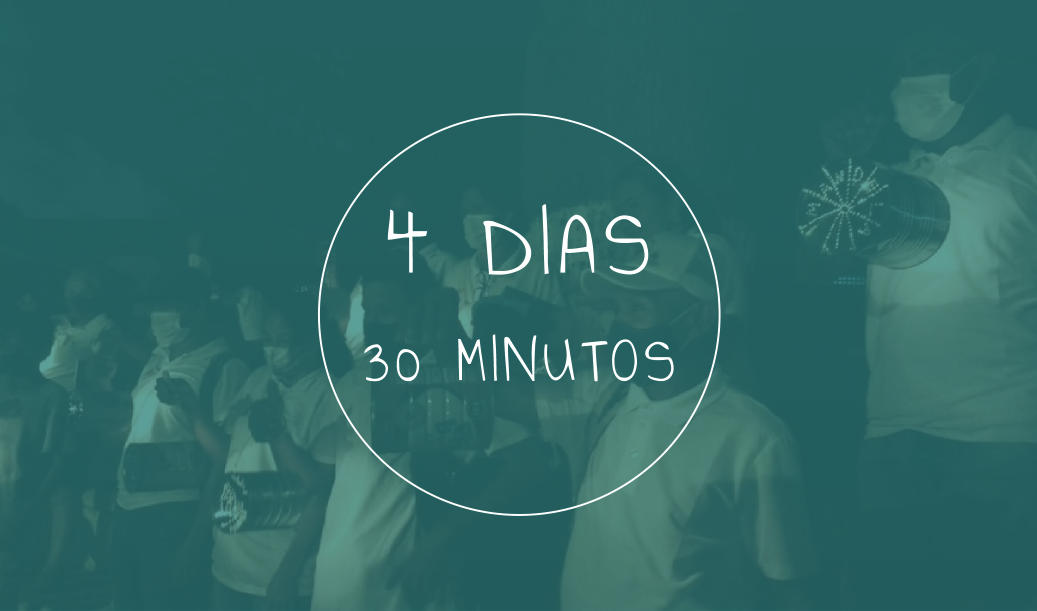
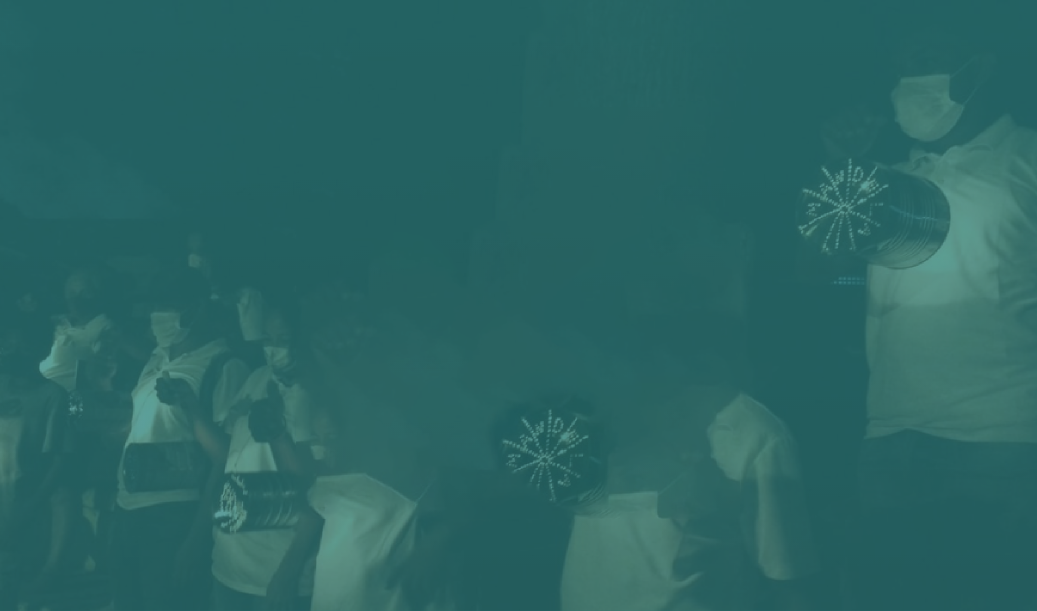
Ajustes y contador

diff --git a/final/css/app.min.css b/final/css/app.min.css
@@ -1,1 +1,1 @@
-@import url("https://fonts.googleapis.com/css2?family=Dosis:wght@300;500&family=Merienda+One&display=swap");*,*:before,*:after{-webkit-box-sizing:border-box;box-sizing:border-box}html,body,div,span,object,iframe,figure,h1,h2,h3,h4,h5,h6,p,blockquote,pre,a,code,em,img,small,strike,strong,sub,sup,tt,b,u,i,ol,ul,li,fieldset,form,label,table,caption,tbody,tfoot,thead,tr,th,td,main,canvas,embed,footer,header,nav,section,video{margin:0;padding:0;border:0;font-size:18px;font:inherit;vertical-align:baseline;text-rendering:optimizeLegibility;-webkit-font-smoothing:antialiased;-webkit-text-size-adjust:none;-moz-text-size-adjust:none;-ms-text-size-adjust:none;text-size-adjust:none}footer,header,nav,section,main{display:block}html,body{margin:0;height:100%;overflow-x:hidden;-webkit-overflow-scrolling:touch;overflow-scrolling:touch}em{font-style:italic}b{font-weight:700}p{line-height:160%}ol,ul{list-style:none}blockquote,q{quotes:none}blockquote:before,blockquote:after,q:before,q:after{content:"";content:none}table{border-collapse:collapse;border-spacing:0}img{display:block}html{overflow-x:hidden}footer{background-color:#173533;padding:100px 20px;text-align:center}footer img{max-width:1000px;width:100%;display:inline-block}a{font-family:"Dosis", sans-serif}#gradient{position:fixed;top:0;left:0;height:100vh;width:100vw;z-index:-10}.mt-10{margin-top:10% !important}.mt-20{margin-top:20% !important}#container{padding:0;position:relative;z-index:100;overflow-x:hidden;background-color:transparent}#container::after{content:"";position:absolute;z-index:500;bottom:5vh;left:15vw;width:70vw;height:2px;border-top:1px dashed rgba(245,245,220,0.2)}#container #colorsBox{position:absolute;top:0;left:0;width:100%;height:calc(100% - 100vh);pointer-events:none}#container #colorsBox .colorTrigger{position:relative;width:100%}#container section{width:100%;padding:0vh 0 8vh 0;max-width:75vw;margin:0 auto;display:-ms-grid;display:grid;-webkit-box-align:center;-ms-flex-align:center;align-items:center;position:relative}#container section:first-of-type{padding:0}#container section.ubicacion{width:100vw;height:100vh;position:relative;margin-bottom:0vh;display:-webkit-box;display:-ms-flexbox;display:flex;-webkit-box-pack:center;-ms-flex-pack:center;justify-content:center;-webkit-box-align:center;-ms-flex-align:center;align-items:center}#container section.ubicacion img{position:absolute;z-index:500;width:90vw;max-width:90vw;height:90vh;max-height:90vh}#container section.ubicacion img.map-colombia{width:100vw;max-width:100vw;left:6vw}#container section.ubicacion h3{--min: 2rem;--val: 3rem;--max: 4rem;font-family:"Merienda One", cursive;font-weight:normal;font-style:normal;line-height:160%;margin:0 0 5vh 0;color:#993333;opacity:1;max-width:70vw;position:absolute;z-index:100;left:8vw;opacity:1}#container section.ubicacion h3:nth-child(1){opacity:1}#container section.ubicacion h3:nth-child(3){opacity:1}#container section.m-section{min-height:70vh}#container section.big-quote{display:-webkit-box;display:-ms-flexbox;display:flex;margin:0 auto;max-width:800px}#container section.big-quote p{--min: 2.2rem;--val: 2.2rem;--max: 5rem;display:-webkit-box}#container section.divider{height:100vh}#container section.mid-divider{height:50vh}#container section.dark p{color:#454545 !important}#container section:first-of-type{padding:0}#container section .right-col{width:60%;margin-left:40%}#container section .left-col{width:70%}#container section.f-width{max-width:100%}#container section.f-width img{width:100%}#container section.m-width{max-width:800px}#container .center{text-align:center}#container .right h2,#container .right p{text-align:right}#container h2,#container h3,#container small,#container p{-webkit-marquee-increment:0vw;font-size:clamp(var(--min), var(--val), var(--max))}#container h2{--min: 3rem;--val: 3.8rem;--max: 5rem;font-family:"Merienda One", cursive;font-weight:normal;font-style:normal;line-height:1;margin:0 0 5vh 0;color:#993333;opacity:1}#container h2.big-title{--min: 2rem;--val: 4.5rem;--max: 8rem}#container h2 small{--min: 2rem;--val: 3rem;--max: 4rem;display:block;margin-bottom:20px}#container p{--min: 1.6rem;--val: calc(0.5vw + 1.4rem);--max: 2.8rem;font-family:"Dosis", sans-serif;line-height:160%;color:white;padding:10px 0 10px 0;font-weight:300}#container p:first-child{--min: 1.6rem;--val: calc(0.5vw + 1.4rem);--max: 2.8rem;color:white;max-width:100vw;-webkit-box-align:center;-ms-flex-align:center;align-items:center;padding-bottom:0;margin-bottom:0;font-weight:300}#container .manoBox{position:absolute;z-index:200;pointer-events:none}#container .manoBox img{width:100%}#container .manoBox img.manoA{position:relative;z-index:10}#container .manoBox img.manoBrillo{position:absolute;z-index:20;top:0;left:0;opacity:0;-webkit-transition:opacity 0.7s ease-out;transition:opacity 0.7s ease-out}#container .manoBox img.manoBrillo.active{opacity:1}#container .manoBox#mano1{width:90vw;top:0%;left:-60vw}#container .manoBox#mano2{width:90vw;top:70%;right:-20vw}#container .manoBox#mano3{width:90vw;top:0%;left:-65vw}#container .manoBox#mano4{width:70vw;top:30%;right:-20vw}.toggle,.graphic-table{padding:20px;border-radius:100px;border-color:white !important;color:white;text-decoration:none;border:1px solid;font-size:1.2rem;-webkit-transition:all 0.4s ease-in-out;transition:all 0.4s ease-in-out;display:inline-block}.graphic-table:hover{background-color:#000;color:#fff}.toggle{margin:4rem 0;text-align:center;max-width:400px}.toggle img{width:30px;margin:-7px 10px 10px;vertical-align:middle;-webkit-filter:invert(0%) sepia(0%) saturate(0%) hue-rotate(0deg) brightness(200%) contrast(100%);filter:invert(0%) sepia(0%) saturate(0%) hue-rotate(0deg) brightness(200%) contrast(100%);-webkit-transition:all 0.4s ease-in-out;transition:all 0.4s ease-in-out;display:inline-block}.toggle:hover img{-webkit-filter:invert(0%) sepia(0%) saturate(0%) hue-rotate(0deg) brightness(200%) contrast(100%);filter:invert(0%) sepia(0%) saturate(0%) hue-rotate(0deg) brightness(200%) contrast(100%);-webkit-transition:all 0.4s ease-in-out;transition:all 0.4s ease-in-out}.toggle-content{display:none;height:auto;opacity:0;overflow:hidden;-webkit-transition:opacity 0.3s ease-in-out;transition:opacity 0.3s ease-in-out}.toggle-content.is-visible{display:-webkit-box;display:-ms-flexbox;display:flex;width:100%;-webkit-box-align:center;-ms-flex-align:center;align-items:center;-webkit-box-pack:center;-ms-flex-pack:center;justify-content:center;height:100vh !important;opacity:1;-webkit-transition:opacity 0.3s ease-in-out;transition:opacity 0.3s ease-in-out}.inside-button{position:absolute;top:10px;left:10px;padding:0px 18px 5px !important;z-index:999999}.mask-image{mask-image:url("https://res.cloudinary.com/daqkfiwnc/image/upload/v1647573770/assets/mask_cloud_gzcgdf.png");-webkit-mask-size:100% 100%;mask-size:100% 100%;mask-mode:alpha;mask-repeat:no-repeat;mask-position:center;-webkit-mask-image:url("https://res.cloudinary.com/daqkfiwnc/image/upload/v1647573770/assets/mask_cloud_gzcgdf.png");-webkit-mask-size:300% 100%;-webkit-mask-repeat:no-repeat;-webkit-mask-position:center}.mask-image.is-inview{mask-image:url("https://res.cloudinary.com/daqkfiwnc/image/upload/v1647573770/assets/mask_cloud_gzcgdf.png");-webkit-mask-size:100% 100%;mask-size:100% 100%;mask-mode:alpha;mask-repeat:no-repeat;mask-position:center;-webkit-mask-image:url("https://res.cloudinary.com/daqkfiwnc/image/upload/v1647573770/assets/mask_cloud_gzcgdf.png");-webkit-mask-size:300% 100%;-webkit-mask-repeat:no-repeat;-webkit-mask-position:center;-webkit-animation-name:mask-animation-image;animation-name:mask-animation-image;-webkit-animation-duration:1s;animation-duration:1s;-webkit-animation-iteration-count:1;animation-iteration-count:1;-webkit-animation-fill-mode:forwards;animation-fill-mode:forwards}.modal{position:fixed;top:0;left:0;z-index:9999;background-color:var(--cream);mask-image:url("https://res.cloudinary.com/daqkfiwnc/image/upload/v1647573770/assets/mask_cloud_gzcgdf.png");mask-size:100% 100%;mask-mode:alpha;mask-repeat:no-repeat;mask-position:center;-webkit-mask-image:url("https://res.cloudinary.com/daqkfiwnc/image/upload/v1647573770/assets/mask_cloud_gzcgdf.png");-webkit-mask-size:100% 100%;-webkit-mask-repeat:no-repeat;-webkit-mask-position:center;-webkit-animation-name:mask-animation;animation-name:mask-animation;-webkit-animation-duration:2s;animation-duration:2s;-webkit-animation-iteration-count:1;animation-iteration-count:1;-webkit-animation-fill-mode:forwards;animation-fill-mode:forwards}.mask-hide{-webkit-animation-name:mask-hide;animation-name:mask-hide;-webkit-animation-duration:2s;animation-duration:2s;-webkit-animation-iteration-count:1;animation-iteration-count:1;-webkit-animation-fill-mode:forwards;animation-fill-mode:forwards}.modal#fragmentos{background-color:#cb9866}.modal#entre-dientes{background-color:#987f4d}.modal#anonimos{background-color:#339898}.modal#pazzz{background-color:#348080}.content-modal{display:-webkit-box;display:-ms-flexbox;display:flex;-webkit-box-orient:vertical;-webkit-box-direction:normal;-ms-flex-direction:column;flex-direction:column;-webkit-box-align:center;-ms-flex-align:center;align-items:center}@-webkit-keyframes mask-animation{0%{opacity:1;mask-size:0vw 0vh;-webkit-mask-size:0vw 0vh}100%{opacity:1;mask-size:300vw 300vh;-webkit-mask-size:300vw 300vh}}@keyframes mask-animation{0%{opacity:1;mask-size:0vw 0vh;-webkit-mask-size:0vw 0vh}100%{opacity:1;mask-size:300vw 300vh;-webkit-mask-size:300vw 300vh}}@-webkit-keyframes mask-animation-image{0%{opacity:0;mask-size:0% 0%;-webkit-mask-size:0% 0%}100%{opacity:1;mask-size:300% 100%;-webkit-mask-size:300% 100%}}@keyframes mask-animation-image{0%{opacity:0;mask-size:0% 0%;-webkit-mask-size:0% 0%}100%{opacity:1;mask-size:300% 100%;-webkit-mask-size:300% 100%}}@-webkit-keyframes mask-hide{0%{opacity:1;mask-size:300vw 300vh;-webkit-mask-size:300vw 300vh}100%{opacity:1;mask-size:0vw 0vh;-webkit-mask-size:0vw 0vh}}@keyframes mask-hide{0%{opacity:1;mask-size:300vw 300vh;-webkit-mask-size:300vw 300vh}100%{opacity:1;mask-size:0vw 0vh;-webkit-mask-size:0vw 0vh}}.gallery{padding:2px;padding:2px;max-width:1200px;margin:0 auto}.gallery .photo{position:relative;float:left;margin:2px;width:32%;cursor:pointer;background:#000;-webkit-animation:small 0.5s ease-in-out both;animation:small 0.5s ease-in-out both;-webkit-transition:z-index 0s linear 0.5s, -webkit-transform 0.5s ease-in-out;transition:z-index 0s linear 0.5s, -webkit-transform 0.5s ease-in-out;transition:transform 0.5s ease-in-out, z-index 0s linear 0.5s;transition:transform 0.5s ease-in-out, z-index 0s linear 0.5s, -webkit-transform 0.5s ease-in-out}.gallery .photo.active{-webkit-animation:big 0.5s ease-in-out both;animation:big 0.5s ease-in-out both}.gallery .photo:nth-child(1){-webkit-transform-origin:0% 0%;transform-origin:0% 0%}.gallery .photo:nth-child(2){-webkit-transform-origin:50% 0%;transform-origin:50% 0%}.gallery .photo:nth-child(3){-webkit-transform-origin:100% 0%;transform-origin:100% 0%}.gallery .photo:nth-child(4){-webkit-transform-origin:0% 50%;transform-origin:0% 50%}.gallery .photo:nth-child(5){-webkit-transform-origin:50% 50%;transform-origin:50% 50%}.gallery .photo:nth-child(6){-webkit-transform-origin:100% 50%;transform-origin:100% 50%}.gallery .photo:nth-child(7){-webkit-transform-origin:0% 100%;transform-origin:0% 100%}.gallery .photo:nth-child(8){-webkit-transform-origin:50% 100%;transform-origin:50% 100%}.gallery .photo:nth-child(9){-webkit-transform-origin:100% 100%;transform-origin:100% 100%}.gallery .photo img{width:100%;height:auto;-webkit-transition:opacity 0.5s ease-in-out;transition:opacity 0.5s ease-in-out}.gallery .photo.away img{opacity:0}.linea-interactiva{position:relative;height:100%}.linea-interactiva .fechas{height:170%;position:absolute;z-index:9999;top:-24%;cursor:pointer}.linea-interactiva .fechas:hover .forma-interactiva{opacity:1;-webkit-transition:all 0.2s ease-in-out;transition:all 0.2s ease-in-out}.linea-interactiva .fechas .fecha{font-size:1.8rem;color:#fff;font-family:"Dosis", sans-serif;font-weight:300;position:absolute}.linea-interactiva .fechas.fecha-1980{width:30%}.linea-interactiva .fechas.fecha-1980:hover .forma-interactiva{opacity:1;-webkit-transition:all 0.2s ease-in-out;transition:all 0.2s ease-in-out}.linea-interactiva .fechas.fecha-1980:hover .content-fecha{height:50%;opacity:1;-webkit-transition:all 0.2s ease-in-out;transition:all 0.2s ease-in-out}.linea-interactiva .fechas.fecha-1980 .content-fecha{position:absolute;height:0%;width:100%;bottom:30%;opacity:0;overflow:hidden;-webkit-transition:all 0.2s ease-in-out;transition:all 0.2s ease-in-out}.linea-interactiva .fechas.fecha-1980 .fecha{bottom:5%;left:25%}.linea-interactiva .fechas.fecha-1980 .linea-fecha{position:absolute;border-color:#fff;border-style:solid;border-right:1px;border-top:1px;width:100%;height:260px;bottom:0%;left:18%}.linea-interactiva .fechas.fecha-1980 .forma-interactiva{width:88%;height:27%;transform:skew(0deg, 6deg);-webkit-transform:skew(0deg, 0deg);-moz-transform:skew(0deg, 0deg);-o-transform:skew(0deg, 0deg);-ms-transform:skew(0deg, 0deg);position:absolute;top:37%;left:10%;opacity:0;background:rgba(252,203,104,0.5);-webkit-transition:all 0.2s ease-in-out;transition:all 0.2s ease-in-out}.linea-interactiva .fechas.fecha-1988{width:21%;left:30%}.linea-interactiva .fechas.fecha-1988 .content-fecha{position:absolute;height:0%;width:100%;top:0%;opacity:1;overflow:hidden;-webkit-transition:all 0.2s ease-in-out;transition:all 0.2s ease-in-out}.linea-interactiva .fechas.fecha-1988 .fecha{top:20%;left:0%}.linea-interactiva .fechas.fecha-1988 .linea-fecha{position:absolute;border-color:#fff;border-style:solid;border-left:1px;border-bottom:1px;width:65%;height:254px;top:40%;left:0%}.linea-interactiva .fechas.fecha-1988 .forma-interactiva{width:56%;height:37%;transform:skew(-2deg, 3deg);-webkit-transform:skew(-2deg, 3deg);-moz-transform:skew(-2deg, 3deg);-o-transform:skew(-2deg, 3deg);-ms-transform:skew(-2deg, 3deg);position:absolute;top:26%;left:13%;opacity:0;background:rgba(252,203,104,0.5);-webkit-transition:all 0.2s ease-in-out;transition:all 0.2s ease-in-out}.linea-interactiva .fechas.fecha-1988:hover .content-fecha{height:50%;opacity:1;-webkit-transition:all 0.2s ease-in-out;transition:all 0.2s ease-in-out}.linea-interactiva .fechas.fecha-1988:hover .forma-interactiva{opacity:1;-webkit-transition:all 0.2s ease-in-out;transition:all 0.2s ease-in-out}.linea-interactiva .fechas.fecha-1997{width:10%;left:51%}.linea-interactiva .fechas.fecha-1997:hover .content-fecha{height:50%;opacity:1;-webkit-transition:all 0.2s ease-in-out;transition:all 0.2s ease-in-out}.linea-interactiva .fechas.fecha-1997:hover .forma-interactiva{opacity:1;-webkit-transition:all 0.2s ease-in-out;transition:all 0.2s ease-in-out}.linea-interactiva .fechas.fecha-1997 .content-fecha{position:absolute;height:0%;width:100%;top:0%;opacity:0;overflow:hidden;-webkit-transition:all 0.2s ease-in-out;transition:all 0.2s ease-in-out}.linea-interactiva .fechas.fecha-1997 .fecha{top:32%;left:0%;width:100%}.linea-interactiva .fechas.fecha-1997 .linea-fecha{position:absolute;border-color:#fff;border-style:solid;border-right:1px;border-bottom:1px;width:100%;height:201px;top:52%;left:2%}.linea-interactiva .fechas.fecha-1997 .forma-interactiva{width:74%;height:29%;transform:skew(-2deg, 3deg);-webkit-transform:skew(-2deg, 3deg);-moz-transform:skew(-2deg, 3deg);-o-transform:skew(-2deg, 3deg);-ms-transform:skew(-2deg, 3deg);position:absolute;left:0%;top:34%;opacity:0;background:rgba(252,203,104,0.5);-webkit-transition:all 0.2s ease-in-out;transition:all 0.2s ease-in-out}.linea-interactiva .fechas.fecha-2005{width:39%;left:61%}.linea-interactiva .fechas.fecha-2005:hover .content-fecha{height:50%;opacity:1;-webkit-transition:all 0.2s ease-in-out;transition:all 0.2s ease-in-out}.linea-interactiva .fechas.fecha-2005:hover .forma-interactiva{opacity:1;-webkit-transition:all 0.2s ease-in-out;transition:all 0.2s ease-in-out}.linea-interactiva .fechas.fecha-2005 .content-fecha{position:absolute;height:0%;width:100%;bottom:30%;opacity:0;overflow:hidden;-webkit-transition:all 0.2s ease-in-out;transition:all 0.2s ease-in-out}.linea-interactiva .fechas.fecha-2005 .fecha{bottom:5%;left:25%}.linea-interactiva .fechas.fecha-2005 .linea-fecha{position:absolute;border-color:#fff;border-style:solid;border-right:1px;border-top:1px;width:100%;height:260px;bottom:0%;left:18%}.linea-interactiva .fechas.fecha-2005 .forma-interactiva{width:36%;height:18%;transform:skew(0deg, 6deg);-webkit-transform:skew(-3deg, 3deg);-moz-transform:skew(-3deg, 3deg);-o-transform:skew(-3deg, 3deg);-ms-transform:skew(-3deg, 3deg);position:absolute;top:37%;left:4%;opacity:0;background:rgba(252,203,104,0.5);-webkit-transition:all 0.2s ease-in-out;transition:all 0.2s ease-in-out}.thumb{display:-webkit-box;display:-ms-flexbox;display:flex;-webkit-box-align:center;-ms-flex-align:center;align-items:center;-webkit-box-pack:center;-ms-flex-pack:center;justify-content:center;-webkit-box-orient:vertical;-webkit-box-direction:normal;-ms-flex-direction:column;flex-direction:column}.thumbs-block{position:relative;overflow:hidden}.thumbs-block .thumbs{display:-webkit-box;display:-ms-flexbox;display:flex;-webkit-box-orient:horizontal;-webkit-box-direction:normal;-ms-flex-flow:row nowrap;flex-flow:row nowrap;background-size:cover;padding:70px}.thumbs-block .thumbs .thumb img{max-width:250px;margin:20px;-webkit-transform:scale(1);transform:scale(1);-webkit-transition:all 0.8s ease-in-out;transition:all 0.8s ease-in-out}.thumbs-block .thumbs .thumb img:hover{max-width:250px;margin:20px;-webkit-transform:scale(1.3);transform:scale(1.3);-webkit-transition:all 0.8s ease-in-out;transition:all 0.8s ease-in-out;z-index:1;cursor:pointer}.thumbs-block .thumbs .background img{position:absolute;width:auto !important;max-width:inherit;left:0;top:0}.title-yellow{color:#FCCB68 !important}.w-5{max-width:50vw;margin:0 auto}
+@import url("https://fonts.googleapis.com/css2?family=Dosis:wght@300;500&family=Merienda+One&display=swap");*,*:before,*:after{-webkit-box-sizing:border-box;box-sizing:border-box}html,body,div,span,object,iframe,figure,h1,h2,h3,h4,h5,h6,p,blockquote,pre,a,code,em,img,small,strike,strong,sub,sup,tt,b,u,i,ol,ul,li,fieldset,form,label,table,caption,tbody,tfoot,thead,tr,th,td,main,canvas,embed,footer,header,nav,section,video{margin:0;padding:0;border:0;font-size:18px;font:inherit;vertical-align:baseline;text-rendering:optimizeLegibility;-webkit-font-smoothing:antialiased;-webkit-text-size-adjust:none;-moz-text-size-adjust:none;-ms-text-size-adjust:none;text-size-adjust:none}footer,header,nav,section,main{display:block}html,body{margin:0;height:100%;overflow-x:hidden;-webkit-overflow-scrolling:touch;overflow-scrolling:touch}em{font-style:italic}b{font-weight:700}p{line-height:160%}ol,ul{list-style:none}blockquote,q{quotes:none}blockquote:before,blockquote:after,q:before,q:after{content:"";content:none}table{border-collapse:collapse;border-spacing:0}img{display:block}html{overflow-x:hidden}footer{background-color:#173533;padding:100px 20px;text-align:center}footer img{max-width:1000px;width:100%;display:inline-block}a{font-family:"Dosis", sans-serif}#gradient{position:fixed;top:0;left:0;height:100vh;width:100vw;z-index:-10}.mt-10{margin-top:10% !important}.mt-20{margin-top:20% !important}#container{padding:0;position:relative;z-index:100;overflow-x:hidden;background-color:transparent}#container::after{content:"";position:absolute;z-index:500;bottom:5vh;left:15vw;width:70vw;height:2px;border-top:1px dashed rgba(245,245,220,0.2)}#container #colorsBox{position:absolute;top:0;left:0;width:100%;height:calc(100% - 100vh);pointer-events:none}#container #colorsBox .colorTrigger{position:relative;width:100%}#container section{width:100%;padding:0vh 0 8vh 0;max-width:75vw;margin:0 auto;display:-ms-grid;display:grid;-webkit-box-align:center;-ms-flex-align:center;align-items:center;position:relative}#container section:first-of-type{padding:0}#container section.ubicacion{width:100vw;height:100vh;position:relative;margin-bottom:0vh;display:-webkit-box;display:-ms-flexbox;display:flex;-webkit-box-pack:center;-ms-flex-pack:center;justify-content:center;-webkit-box-align:center;-ms-flex-align:center;align-items:center}#container section.ubicacion img{position:absolute;z-index:500;width:90vw;max-width:90vw;height:90vh;max-height:90vh}#container section.ubicacion img.map-colombia{width:100vw;max-width:100vw;left:6vw}#container section.ubicacion h3{--min: 2rem;--val: 3rem;--max: 4rem;font-family:"Merienda One", cursive;font-weight:normal;font-style:normal;line-height:160%;margin:0 0 5vh 0;color:#993333;opacity:1;max-width:70vw;position:absolute;z-index:100;left:8vw;opacity:1}#container section.ubicacion h3:nth-child(1){opacity:1}#container section.ubicacion h3:nth-child(3){opacity:1}#container section.m-section{min-height:70vh}#container section.big-quote{display:-webkit-box;display:-ms-flexbox;display:flex;margin:0 auto;max-width:800px}#container section.big-quote p{--min: 2.2rem;--val: 2.2rem;--max: 5rem;display:-webkit-box}#container section.divider{height:100vh}#container section.mid-divider{height:50vh}#container section.dark p{color:#454545 !important}#container section:first-of-type{padding:0}#container section .right-col{width:60%;margin-left:40%}#container section .left-col{width:70%}#container section.f-width{max-width:100%}#container section.f-width img{width:100%}#container section.m-width{max-width:800px}#container .center{text-align:center}#container .right h2,#container .right p{text-align:right}#container h2,#container h3,#container small,#container p{-webkit-marquee-increment:0vw;font-size:clamp(var(--min), var(--val), var(--max))}#container h2{--min: 3rem;--val: 3.8rem;--max: 5rem;font-family:"Merienda One", cursive;font-weight:normal;font-style:normal;line-height:1;margin:0 0 5vh 0;color:#993333;opacity:1}#container h2.big-title{--min: 2rem;--val: 4.5rem;--max: 8rem}#container h2 small{--min: 2rem;--val: 3rem;--max: 4rem;display:block;margin-bottom:20px}#container p{--min: 1.6rem;--val: calc(0.5vw + 1.4rem);--max: 2.8rem;font-family:"Dosis", sans-serif;line-height:160%;color:white;padding:10px 0 10px 0;font-weight:300}#container p:first-child{--min: 1.6rem;--val: calc(0.5vw + 1.4rem);--max: 2.8rem;color:white;max-width:100vw;-webkit-box-align:center;-ms-flex-align:center;align-items:center;padding-bottom:0;margin-bottom:0;font-weight:300}#container .manoBox{position:absolute;z-index:200;pointer-events:none}#container .manoBox img{width:100%}#container .manoBox img.manoA{position:relative;z-index:10}#container .manoBox img.manoBrillo{position:absolute;z-index:20;top:0;left:0;opacity:0;-webkit-transition:opacity 0.7s ease-out;transition:opacity 0.7s ease-out}#container .manoBox img.manoBrillo.active{opacity:1}#container .manoBox#mano1{width:90vw;top:0%;left:-60vw}#container .manoBox#mano2{width:90vw;top:70%;right:-20vw}#container .manoBox#mano3{width:90vw;top:0%;left:-65vw}#container .manoBox#mano4{width:70vw;top:30%;right:-20vw}#countdown{background:url("../images/video.png");background-size:cover;width:100%;padding:100px}#countdown ul{width:500px;height:500px;display:-ms-grid;display:grid;border:1px solid #fff;border-radius:100%;justify-items:center;margin:0 auto;padding:6rem}#countdown ul li{font-family:"Merienda One", cursive;font-size:3rem;color:white}.toggle,.graphic-table{padding:20px;border-radius:100px;border-color:white !important;color:white;text-decoration:none;border:1px solid;font-size:1.2rem;-webkit-transition:all 0.4s ease-in-out;transition:all 0.4s ease-in-out;display:inline-block}.graphic-table:hover{background-color:#000;color:#fff}.toggle{margin:4rem 0;text-align:center;max-width:400px}.toggle img{width:30px;margin:-7px 10px 10px;vertical-align:middle;-webkit-filter:invert(0%) sepia(0%) saturate(0%) hue-rotate(0deg) brightness(200%) contrast(100%);filter:invert(0%) sepia(0%) saturate(0%) hue-rotate(0deg) brightness(200%) contrast(100%);-webkit-transition:all 0.4s ease-in-out;transition:all 0.4s ease-in-out;display:inline-block}.toggle:hover img{-webkit-filter:invert(0%) sepia(0%) saturate(0%) hue-rotate(0deg) brightness(200%) contrast(100%);filter:invert(0%) sepia(0%) saturate(0%) hue-rotate(0deg) brightness(200%) contrast(100%);-webkit-transition:all 0.4s ease-in-out;transition:all 0.4s ease-in-out}.toggle-content{display:none;height:auto;opacity:0;overflow:hidden;-webkit-transition:opacity 0.3s ease-in-out;transition:opacity 0.3s ease-in-out}.toggle-content.is-visible{display:-webkit-box;display:-ms-flexbox;display:flex;width:100%;-webkit-box-align:center;-ms-flex-align:center;align-items:center;-webkit-box-pack:center;-ms-flex-pack:center;justify-content:center;height:100vh !important;opacity:1;-webkit-transition:opacity 0.3s ease-in-out;transition:opacity 0.3s ease-in-out}.inside-button{position:absolute;top:10px;left:10px;padding:0px 18px 5px !important;z-index:999999}.mask-image{mask-image:url("https://res.cloudinary.com/daqkfiwnc/image/upload/v1647573770/assets/mask_cloud_gzcgdf.png");-webkit-mask-size:100% 100%;mask-size:100% 100%;mask-mode:alpha;mask-repeat:no-repeat;mask-position:center;-webkit-mask-image:url("https://res.cloudinary.com/daqkfiwnc/image/upload/v1647573770/assets/mask_cloud_gzcgdf.png");-webkit-mask-size:300% 100%;-webkit-mask-repeat:no-repeat;-webkit-mask-position:center}.mask-image.is-inview{mask-image:url("https://res.cloudinary.com/daqkfiwnc/image/upload/v1647573770/assets/mask_cloud_gzcgdf.png");-webkit-mask-size:100% 100%;mask-size:100% 100%;mask-mode:alpha;mask-repeat:no-repeat;mask-position:center;-webkit-mask-image:url("https://res.cloudinary.com/daqkfiwnc/image/upload/v1647573770/assets/mask_cloud_gzcgdf.png");-webkit-mask-size:300% 100%;-webkit-mask-repeat:no-repeat;-webkit-mask-position:center;-webkit-animation-name:mask-animation-image;animation-name:mask-animation-image;-webkit-animation-duration:1s;animation-duration:1s;-webkit-animation-iteration-count:1;animation-iteration-count:1;-webkit-animation-fill-mode:forwards;animation-fill-mode:forwards}.modal{position:fixed;top:0;left:0;z-index:9999;background-color:var(--cream);mask-image:url("https://res.cloudinary.com/daqkfiwnc/image/upload/v1647573770/assets/mask_cloud_gzcgdf.png");mask-size:100% 100%;mask-mode:alpha;mask-repeat:no-repeat;mask-position:center;-webkit-mask-image:url("https://res.cloudinary.com/daqkfiwnc/image/upload/v1647573770/assets/mask_cloud_gzcgdf.png");-webkit-mask-size:100% 100%;-webkit-mask-repeat:no-repeat;-webkit-mask-position:center;-webkit-animation-name:mask-animation;animation-name:mask-animation;-webkit-animation-duration:2s;animation-duration:2s;-webkit-animation-iteration-count:1;animation-iteration-count:1;-webkit-animation-fill-mode:forwards;animation-fill-mode:forwards}.mask-hide{-webkit-animation-name:mask-hide;animation-name:mask-hide;-webkit-animation-duration:2s;animation-duration:2s;-webkit-animation-iteration-count:1;animation-iteration-count:1;-webkit-animation-fill-mode:forwards;animation-fill-mode:forwards}.modal#fragmentos{background-color:#cb9866}.modal#entre-dientes{background-color:#987f4d}.modal#anonimos{background-color:#339898}.modal#pazzz{background-color:#348080}.content-modal{display:-webkit-box;display:-ms-flexbox;display:flex;-webkit-box-orient:vertical;-webkit-box-direction:normal;-ms-flex-direction:column;flex-direction:column;-webkit-box-align:center;-ms-flex-align:center;align-items:center}@-webkit-keyframes mask-animation{0%{opacity:1;mask-size:0vw 0vh;-webkit-mask-size:0vw 0vh}100%{opacity:1;mask-size:300vw 300vh;-webkit-mask-size:300vw 300vh}}@keyframes mask-animation{0%{opacity:1;mask-size:0vw 0vh;-webkit-mask-size:0vw 0vh}100%{opacity:1;mask-size:300vw 300vh;-webkit-mask-size:300vw 300vh}}@-webkit-keyframes mask-animation-image{0%{opacity:0;mask-size:0% 0%;-webkit-mask-size:0% 0%}100%{opacity:1;mask-size:300% 100%;-webkit-mask-size:300% 100%}}@keyframes mask-animation-image{0%{opacity:0;mask-size:0% 0%;-webkit-mask-size:0% 0%}100%{opacity:1;mask-size:300% 100%;-webkit-mask-size:300% 100%}}@-webkit-keyframes mask-hide{0%{opacity:1;mask-size:300vw 300vh;-webkit-mask-size:300vw 300vh}100%{opacity:1;mask-size:0vw 0vh;-webkit-mask-size:0vw 0vh}}@keyframes mask-hide{0%{opacity:1;mask-size:300vw 300vh;-webkit-mask-size:300vw 300vh}100%{opacity:1;mask-size:0vw 0vh;-webkit-mask-size:0vw 0vh}}.gallery{padding:2px;padding:2px;max-width:1200px;margin:0 auto}.gallery .photo{position:relative;float:left;margin:2px;width:32%;cursor:pointer;background:#000;-webkit-animation:small 0.5s ease-in-out both;animation:small 0.5s ease-in-out both;-webkit-transition:z-index 0s linear 0.5s, -webkit-transform 0.5s ease-in-out;transition:z-index 0s linear 0.5s, -webkit-transform 0.5s ease-in-out;transition:transform 0.5s ease-in-out, z-index 0s linear 0.5s;transition:transform 0.5s ease-in-out, z-index 0s linear 0.5s, -webkit-transform 0.5s ease-in-out}.gallery .photo.active{-webkit-animation:big 0.5s ease-in-out both;animation:big 0.5s ease-in-out both}.gallery .photo:nth-child(1){-webkit-transform-origin:0% 0%;transform-origin:0% 0%}.gallery .photo:nth-child(2){-webkit-transform-origin:50% 0%;transform-origin:50% 0%}.gallery .photo:nth-child(3){-webkit-transform-origin:100% 0%;transform-origin:100% 0%}.gallery .photo:nth-child(4){-webkit-transform-origin:0% 50%;transform-origin:0% 50%}.gallery .photo:nth-child(5){-webkit-transform-origin:50% 50%;transform-origin:50% 50%}.gallery .photo:nth-child(6){-webkit-transform-origin:100% 50%;transform-origin:100% 50%}.gallery .photo:nth-child(7){-webkit-transform-origin:0% 100%;transform-origin:0% 100%}.gallery .photo:nth-child(8){-webkit-transform-origin:50% 100%;transform-origin:50% 100%}.gallery .photo:nth-child(9){-webkit-transform-origin:100% 100%;transform-origin:100% 100%}.gallery .photo img{width:100%;height:auto;-webkit-transition:opacity 0.5s ease-in-out;transition:opacity 0.5s ease-in-out}.gallery .photo.away img{opacity:0}.linea-interactiva{position:relative;height:100%}.linea-interactiva .fechas{height:170%;position:absolute;z-index:9999;top:-24%;cursor:pointer}.linea-interactiva .fechas:hover .forma-interactiva{opacity:1;-webkit-transition:all 0.2s ease-in-out;transition:all 0.2s ease-in-out}.linea-interactiva .fechas .fecha{font-size:1.8rem;color:#fff;font-family:"Dosis", sans-serif;font-weight:300;position:absolute}.linea-interactiva .fechas.fecha-1980{width:30%}.linea-interactiva .fechas.fecha-1980:hover .forma-interactiva{opacity:1;-webkit-transition:all 0.2s ease-in-out;transition:all 0.2s ease-in-out}.linea-interactiva .fechas.fecha-1980:hover .content-fecha{height:50%;opacity:1;-webkit-transition:all 0.2s ease-in-out;transition:all 0.2s ease-in-out}.linea-interactiva .fechas.fecha-1980 .content-fecha{position:absolute;height:0%;width:100%;bottom:30%;opacity:0;overflow:hidden;-webkit-transition:all 0.2s ease-in-out;transition:all 0.2s ease-in-out}.linea-interactiva .fechas.fecha-1980 .fecha{bottom:5%;left:25%}.linea-interactiva .fechas.fecha-1980 .linea-fecha{position:absolute;border-color:#fff;border-style:solid;border-right:1px;border-top:1px;width:100%;height:260px;bottom:0%;left:18%}.linea-interactiva .fechas.fecha-1980 .forma-interactiva{width:88%;height:27%;transform:skew(0deg, 6deg);-webkit-transform:skew(0deg, 0deg);-moz-transform:skew(0deg, 0deg);-o-transform:skew(0deg, 0deg);-ms-transform:skew(0deg, 0deg);position:absolute;top:37%;left:10%;opacity:0;background:rgba(252,203,104,0.5);-webkit-transition:all 0.2s ease-in-out;transition:all 0.2s ease-in-out}.linea-interactiva .fechas.fecha-1988{width:21%;left:30%}.linea-interactiva .fechas.fecha-1988 .content-fecha{position:absolute;height:0%;width:100%;top:0%;opacity:1;overflow:hidden;-webkit-transition:all 0.2s ease-in-out;transition:all 0.2s ease-in-out}.linea-interactiva .fechas.fecha-1988 .fecha{top:20%;left:0%}.linea-interactiva .fechas.fecha-1988 .linea-fecha{position:absolute;border-color:#fff;border-style:solid;border-left:1px;border-bottom:1px;width:65%;height:254px;top:40%;left:0%}.linea-interactiva .fechas.fecha-1988 .forma-interactiva{width:56%;height:37%;transform:skew(-2deg, 3deg);-webkit-transform:skew(-2deg, 3deg);-moz-transform:skew(-2deg, 3deg);-o-transform:skew(-2deg, 3deg);-ms-transform:skew(-2deg, 3deg);position:absolute;top:26%;left:13%;opacity:0;background:rgba(252,203,104,0.5);-webkit-transition:all 0.2s ease-in-out;transition:all 0.2s ease-in-out}.linea-interactiva .fechas.fecha-1988:hover .content-fecha{height:50%;opacity:1;-webkit-transition:all 0.2s ease-in-out;transition:all 0.2s ease-in-out}.linea-interactiva .fechas.fecha-1988:hover .forma-interactiva{opacity:1;-webkit-transition:all 0.2s ease-in-out;transition:all 0.2s ease-in-out}.linea-interactiva .fechas.fecha-1997{width:10%;left:51%}.linea-interactiva .fechas.fecha-1997:hover .content-fecha{height:50%;opacity:1;-webkit-transition:all 0.2s ease-in-out;transition:all 0.2s ease-in-out}.linea-interactiva .fechas.fecha-1997:hover .forma-interactiva{opacity:1;-webkit-transition:all 0.2s ease-in-out;transition:all 0.2s ease-in-out}.linea-interactiva .fechas.fecha-1997 .content-fecha{position:absolute;height:0%;width:100%;top:0%;opacity:0;overflow:hidden;-webkit-transition:all 0.2s ease-in-out;transition:all 0.2s ease-in-out}.linea-interactiva .fechas.fecha-1997 .fecha{top:32%;left:0%;width:100%}.linea-interactiva .fechas.fecha-1997 .linea-fecha{position:absolute;border-color:#fff;border-style:solid;border-right:1px;border-bottom:1px;width:100%;height:201px;top:52%;left:2%}.linea-interactiva .fechas.fecha-1997 .forma-interactiva{width:74%;height:29%;transform:skew(-2deg, 3deg);-webkit-transform:skew(-2deg, 3deg);-moz-transform:skew(-2deg, 3deg);-o-transform:skew(-2deg, 3deg);-ms-transform:skew(-2deg, 3deg);position:absolute;left:0%;top:34%;opacity:0;background:rgba(252,203,104,0.5);-webkit-transition:all 0.2s ease-in-out;transition:all 0.2s ease-in-out}.linea-interactiva .fechas.fecha-2005{width:39%;left:61%}.linea-interactiva .fechas.fecha-2005:hover .content-fecha{height:50%;opacity:1;-webkit-transition:all 0.2s ease-in-out;transition:all 0.2s ease-in-out}.linea-interactiva .fechas.fecha-2005:hover .forma-interactiva{opacity:1;-webkit-transition:all 0.2s ease-in-out;transition:all 0.2s ease-in-out}.linea-interactiva .fechas.fecha-2005 .content-fecha{position:absolute;height:0%;width:100%;bottom:30%;opacity:0;overflow:hidden;-webkit-transition:all 0.2s ease-in-out;transition:all 0.2s ease-in-out}.linea-interactiva .fechas.fecha-2005 .fecha{bottom:5%;left:25%}.linea-interactiva .fechas.fecha-2005 .linea-fecha{position:absolute;border-color:#fff;border-style:solid;border-right:1px;border-top:1px;width:100%;height:260px;bottom:0%;left:18%}.linea-interactiva .fechas.fecha-2005 .forma-interactiva{width:36%;height:18%;transform:skew(0deg, 6deg);-webkit-transform:skew(-3deg, 3deg);-moz-transform:skew(-3deg, 3deg);-o-transform:skew(-3deg, 3deg);-ms-transform:skew(-3deg, 3deg);position:absolute;top:37%;left:4%;opacity:0;background:rgba(252,203,104,0.5);-webkit-transition:all 0.2s ease-in-out;transition:all 0.2s ease-in-out}.thumb{display:-webkit-box;display:-ms-flexbox;display:flex;-webkit-box-align:center;-ms-flex-align:center;align-items:center;-webkit-box-pack:center;-ms-flex-pack:center;justify-content:center;-webkit-box-orient:vertical;-webkit-box-direction:normal;-ms-flex-direction:column;flex-direction:column}.thumbs-block{position:relative;overflow:hidden}.thumbs-block .thumbs{display:-webkit-box;display:-ms-flexbox;display:flex;-webkit-box-orient:horizontal;-webkit-box-direction:normal;-ms-flex-flow:row nowrap;flex-flow:row nowrap;background-size:cover;padding:70px}.thumbs-block .thumbs .thumb img{max-width:250px;margin:20px;-webkit-transform:scale(1);transform:scale(1);-webkit-transition:all 0.8s ease-in-out;transition:all 0.8s ease-in-out}.thumbs-block .thumbs .thumb img:hover{max-width:250px;margin:20px;-webkit-transform:scale(1.3);transform:scale(1.3);-webkit-transition:all 0.8s ease-in-out;transition:all 0.8s ease-in-out;z-index:1;cursor:pointer}.thumbs-block .thumbs .background img{position:absolute;width:auto !important;max-width:inherit;left:0;top:0}.title-yellow{color:#FCCB68 !important}.w-5{max-width:50vw;margin:0 auto}

diff --git a/final/index.html b/final/index.html
@@ -185,19 +185,17 @@
           <img src="images/3.jpg" alt="Dayro Carrasquilla"/>
         </div>
       </section>
-      <section class="m-section">
-        <div class="left-col">
-          <p>
-              Hoy, aún hay calles sin pavimentar y viviendas construidas por sus habitantes orgánicamente, con grandes carencias en términos de servicios públicos básicos. Esto, más los diversos factores de marginalidad, han causado revictimizaciones  a manos de grupos armados al margen de la ley. 
-          </p>
-        </div>
+      <section class="m-width m-section center">
+        <p>
+            Hoy, aún hay calles sin pavimentar y viviendas construidas por sus habitantes orgánicamente, con grandes carencias en términos de servicios públicos básicos. Esto, más los diversos factores de marginalidad, han causado revictimizaciones  a manos de grupos armados al margen de la ley. 
+        </p>
       </section>
       <section class="f-width">
         <div class="mask-image">
           <img src="images/4.jpg" alt="Dayro Carrasquilla"/>
         </div>
       </section>
-        <section class="m-section big-quote center">
+        <section class="m-section m-width center">
         <p>
           Actualmente, el barrio Nelson Mandela tiene alrededor de 50.000 habitantes, con líderes sociales que han logrado consolidar organizaciones capaces de sacar adelante las necesidades de la comunidad. El artista Dayro Carrasquilla es uno de esos líderes, que a través de su arte promueve una reflexión y gestión social sobre este territorio.
         </p>
@@ -252,9 +250,16 @@
           </p>
         </div>
       </section>
-      <section class="center">
+      <section class="center mt-10">
         <h2 class="title-yellow">Pronto<br />¡Lanzamiento del video!</h2>
-        <img src="images/video.png" />
+        <div id="countdown">
+          <ul>
+            <li><span id="days"></span> Días</li>
+            <li><span id="hours"></span> Horas</li>
+            <li><span id="minutes"></span> Minutos</li>
+            <li><span id="seconds"></span> Segundos</li>
+          </ul>
+        </div>
       </section>
       <section class="mt-10">
         <div class="left-col">

diff --git a/final/js/functions.js b/final/js/functions.js
@@ -186,3 +186,47 @@ var fourYear = document.getElementById("2005");
 fourYear.addEventListener("click", function (e) {
   location.replace("../desplazamiento-2005.html");
 });
+
+(function () {
+  const second = 1000,
+        minute = second * 60,
+        hour = minute * 60,
+        day = hour * 24;
+
+  //I'm adding this section so I don't have to keep updating this pen every year :-)
+  //remove this if you don't need it
+  let today = new Date(),
+      dd = String(today.getDate()).padStart(2, "0"),
+      mm = String(today.getMonth() + 1).padStart(2, "0"),
+      yyyy = today.getFullYear(),
+      nextYear = yyyy + 1,
+      dayMonth = "07/02/",
+      birthday = dayMonth + yyyy;
+  
+  today = mm + "/" + dd + "/" + yyyy;
+  if (today > birthday) {
+    birthday = dayMonth + nextYear;
+  }
+  //end
+  
+  const countDown = new Date(birthday).getTime(),
+      x = setInterval(function() {    
+
+        const now = new Date().getTime(),
+              distance = countDown - now;
+
+        document.getElementById("days").innerText = Math.floor(distance / (day)),
+          document.getElementById("hours").innerText = Math.floor((distance % (day)) / (hour)),
+          document.getElementById("minutes").innerText = Math.floor((distance % (hour)) / (minute)),
+          document.getElementById("seconds").innerText = Math.floor((distance % (minute)) / second);
+
+        //do something later when date is reached
+        if (distance < 0) {
+          document.getElementById("headline").innerText = "Lanzamiento del video";
+          document.getElementById("countdown").style.display = "none";
+          document.getElementById("content").style.display = "block";
+          clearInterval(x);
+        }
+        //seconds
+      }, 0)
+  }());

diff --git a/final/css/app.css b/final/css/app.css
@@ -449,6 +449,31 @@ a {
   right: -20vw;
 }
 
+#countdown {
+  background: url("../images/video.png");
+  background-size: cover;
+  width: 100%;
+  padding: 100px;
+}
+
+#countdown ul {
+  width: 500px;
+  height: 500px;
+  display: -ms-grid;
+  display: grid;
+  border: 1px solid #fff;
+  border-radius: 100%;
+  justify-items: center;
+  margin: 0 auto;
+  padding: 6rem;
+}
+
+#countdown ul li {
+  font-family: "Merienda One", cursive;
+  font-size: 3rem;
+  color: white;
+}
+
 /***TOGGLE***/
 .toggle,
 .graphic-table {

diff --git a/final/scss/app.scss b/final/scss/app.scss
@@ -452,6 +452,30 @@ a{
   }
 }
 
+#countdown{
+  background: url('../images/video.png');
+  background-size: cover;
+  width: 100%;
+  padding: 100px;
+
+  ul{
+    width: 500px;
+    height: 500px;
+    display: grid;
+    border: 1px solid #fff;
+    border-radius: 100%;
+    justify-items: center;
+    margin: 0 auto;
+    padding: 6rem;
+
+    li{
+      font-family: "Merienda One", cursive;
+      font-size: 3rem;
+      color: white;
+    }
+  }
+}
+
 /***TOGGLE***/
 
 .toggle,
